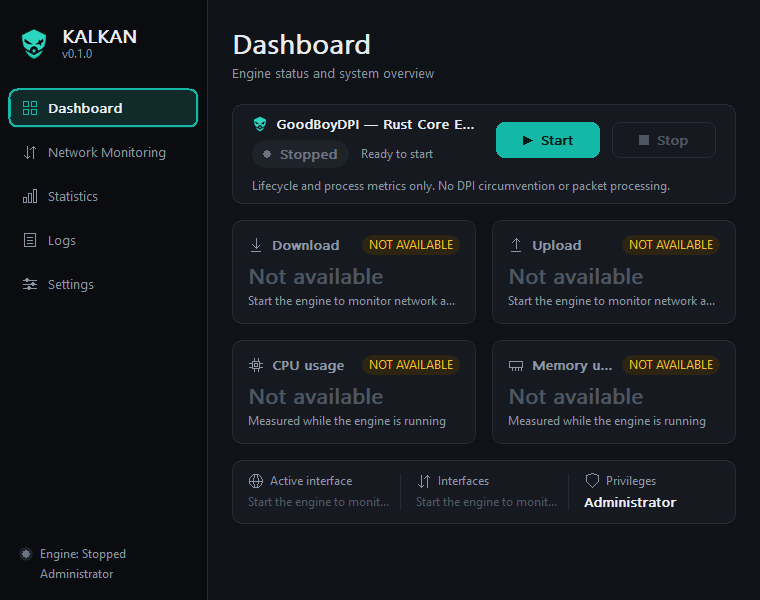
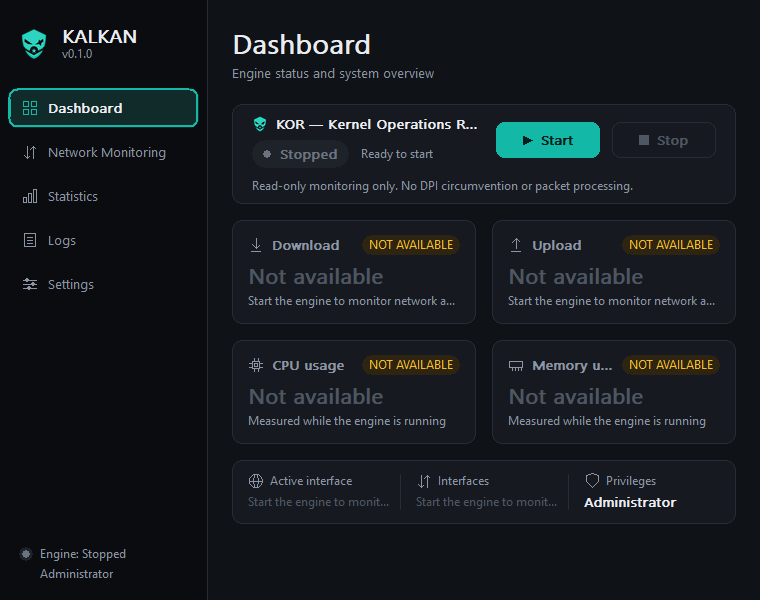
Docs: Phase 6 completed — CI run 38 results and KOR screenshots
- PERFORMANCE.md: Phase 6 completed; run 38 validation of the remaining
  changes (same-process A/B: one metrics update 5.85-6.15 ms on the
  original path vs 2.62-2.79 ms now; tracker 128 simulated adapters
  119 -> 46 us), Settings rendering and resize results, 30-minute soak
  (43/43, no memory or handle growth), remaining limitation (Settings
  resize relayout 3.5-4.3 ms; batching with DeferWindowPos deferred).
- README: Phase 6 done, Phase 7 in progress (research only); validated
  results; screenshots from run 38 showing KOR — Kernel Operations Runtime.
- ARCHITECTURE.md, GUI.md: rename, live-block repaint and tracker change
  marked as validated on Windows CI (run 38).
- docs/screenshots: 8 screenshots regenerated by the run 38 self-test.

Changed region(s): [[0.3329, 0.3, 0.8776, 0.33], [0.3632, 0.18, 0.6053, 0.24]]

diff --git a/docs/PERFORMANCE.md b/docs/PERFORMANCE.md
@@ -1,4 +1,4 @@
-# KALKAN Performance (Phase 6, in progress)
+# KALKAN Performance (Phase 6, completed)
 
 *KALKAN — A Novera Labs Product. Engine: KOR — Kernel Operations Runtime (user mode; previously GoodBoyDPI).*
 
@@ -7,9 +7,8 @@
 | Status | What |
 |---|---|
 | **Validated on Windows CI** | Baseline benchmark and 30-minute soaks (runs 28, 32), frame breakdown (run 34); the first GUI optimization, commit `06e2997`: no relayout and no child-control repaints on metrics updates, sidebar skipped, quieter Logs page, status log line at Trace (run 36: benchmark, self-test 63/63, 2-minute and 30-minute soaks 43/43); GUI-mode log file with rotation during the soak (run 32 listing: `kalkan.log` + 6 archives of ≤ 5 MiB) |
-| **Measured on Linux only** | Tracker sort-key change (local commit `5731234`): 128 / 32 simulated interfaces 43 → 27 µs, 8.8 → 6.5 µs |
+| **Validated on Windows CI, run 38** (commits `5731234`, `ed1873c`, `a5b7255`) | Live-block repaint (one update 55 % cheaper than the original path, same process), tracker sort keys, Settings rendering and resize measurements, KOR rename; self-test 63/63, 2-minute soak 15/15, 30-minute soak 43/43 |
 | **Simulated** | `tests/soak_sim.rs`: scripted adapters, counter resets and API failures, fake process probe (runs on Linux and in Windows CI) |
-| **Pending (not yet run on Windows)** | Local commit `5731234`: live-block invalidation, header/note skipped in paint, per-block paint timing, same-process A/B of the old and new update path; the tracker change. Uncommitted: Settings page rendering and resize measurements (see "Settings rendering and resize measurements") |
 | **Not measured at all** | Desktop/laptop hardware, Windows 10, high-DPI monitors, real adapter churn, sessions longer than 30 minutes, a standard user |
 
 This page records how KALKAN's runtime cost was measured, what was found,
@@ -27,7 +26,7 @@ from a tool in this repository and a CI run that can be repeated.
 | Tool | What it runs | What it reports |
 |---|---|---|
 | `kalkan --benchmark` | Headless: the real monitor, tracker, engine and logging stack. About 2 minutes | Environment and build; 3 rounds × n=1000 of `GetIfTable2`, the tracker and both together (mean, p50, p99, max, CPU per call); tracker scaling with 1–128 **simulated** interfaces; cost of a log event through the production subscriber (file + viewer buffer); size and cost of the GUI's status log line; network sampling while another thread logs flat out; engine CPU stopped and running (3 × 10 s each); memory, handles and threads at start-up, while running and after 200 start/stop cycles |
-| `kalkan --soak <minutes>` | The real window, engine, monitor and log file (GUI-mode file logging with rotation; in CI run 32 the log file rotated at 5 MiB and kept 6 archives within the default retention of 7) | Per minute: process CPU, working set, private bytes, kernel/GDI/USER handles, threads, main-window paints, owner-drawn control paints, relayouts and metrics fast-path updates, GUI paint time, and **input latency** (a helper thread posts a timestamped message every 100 ms; the delay until the UI thread handles it is how long a click would wait). Activities rotate every 5 minutes: steady monitoring, 20 start/stop cycles, every page + minimize/restore + 4 resizes + DPI 144→96, a 50 000-line log burst with the Logs page open, and a settings save + engine restart. At start: the cost of one frame (back buffer / drawing / blit / owner-drawn controls; validated in runs 34 and 36). Added in local commit `5731234`, not yet run on Windows: drawing time per block, and one metrics update through the previous and the current code path in the same process. Added locally (uncommitted), not yet run on Windows: Settings page rendering and resize handling (below) |
+| `kalkan --soak <minutes>` | The real window, engine, monitor and log file (GUI-mode file logging with rotation; in CI run 32 the log file rotated at 5 MiB and kept 6 archives within the default retention of 7) | Per minute: process CPU, working set, private bytes, kernel/GDI/USER handles, threads, main-window paints, owner-drawn control paints, relayouts and metrics fast-path updates, GUI paint time, and **input latency** (a helper thread posts a timestamped message every 100 ms; the delay until the UI thread handles it is how long a click would wait). Activities rotate every 5 minutes: steady monitoring, 20 start/stop cycles, every page + minimize/restore + 4 resizes + DPI 144→96, a 50 000-line log burst with the Logs page open, and a settings save + engine restart. At start: the cost of one frame (back buffer / drawing / blit / owner-drawn controls; validated in runs 34 and 36). Since run 38 also: drawing time per block, one metrics update through the previous and the current code path in the same process, and Settings page rendering and resize handling (below) |
 | `tests/soak_sim.rs` | Any OS. The real engine and lifecycle, tracker, GUI model and logging stack; a **scripted** monitor (adapter churn, counter resets, API failures every 41 samples) and a fake process probe | A counting global allocator measures live heap bytes and allocations per sample; heap growth over 5 000 samples, 300 start/stop cycles and a 100 000-line log flood from 4 threads; asserted bounds |
 
 CI runs the benchmark, the simulated test and a 2-minute soak on every push,
@@ -115,7 +114,7 @@ joined, not a leak. The UI thread never waited more than 15 ms for input.
 | # | Problem | Evidence | Decision |
 |---|---|---|---|
 | 1 | Every 1 s status repainted the **whole window and all child controls** and re-ran the full relayout (MoveWindow/ShowWindow/EnableWindow on every control), although only numbers and graphs changed | 1 relayout + 5 owner-drawn repaints per second; children 0.32 ms per frame | Fixed (metrics fast path) |
-| 2 | The whole page was redrawn every second, including static parts: sidebar, page title, table header area, and a word-wrapped explanatory paragraph | Drawing is 90 % of the frame | Fixed in two steps: sidebar skipped (pushed, measured); static header and note skipped (local, see "Pending") |
+| 2 | The whole page was redrawn every second, including static parts: sidebar, page title, table header area, and a word-wrapped explanatory paragraph | Drawing is 90 % of the frame | Fixed in two steps: sidebar skipped (`06e2997`, run 36); static header and note skipped (`5731234`, run 38) |
 | 3 | The Logs page repainted the whole window on every log wake-up even when the view did not change | Code inspection; 3.4 relayouts/s during log bursts | Fixed |
 | 4 | At Debug level the GUI logged the full engine status every second: about 2.0 KB per line with 6 adapters, 7 MB of log file per hour, and up to ~10 MB of the viewer's 5 000-entry buffer | Benchmark: 2036 bytes per event | Status dump moved to Trace; other engine events stay at Debug |
 | 5 | The tracker sorted interfaces with `to_lowercase()` twice per comparison (2·n·log n string allocations per sample) | Superlinear scaling: 24 µs at 32, 119 µs at 128 simulated interfaces | Fixed (`sort_by_cached_key`, same order); negligible at 6 adapters |
@@ -141,12 +140,12 @@ log flood.
    repaints only the page area so the file status stays live. *(Pushed.)*
 4. **Status at Trace**: the periodic status is logged at Trace; other engine
    events at Debug. *(Pushed.)*
-5. **Live-block invalidation** (local): the fast path invalidates only the
+5. **Live-block invalidation** (`5731234`, validated in run 38): the fast path invalidates only the
    engine panel, tiles, cards, strip and table; the header, notice and the
    explanatory note are skipped when outside the update region.
-6. **Tracker sort keys cached** (local, `kalkan-net`): identical order.
+6. **Tracker sort keys cached** (`5731234`, `kalkan-net`, validated in run 38): identical order.
 7. Measurement code: benchmark, soak, simulated test, per-block paint timing,
-   same-process A/B of the old and new update path (local), counters for
+   same-process A/B of the old and new update path, Settings and resize timing (`ed1873c`), counters for
    paints, owner-drawn controls, relayouts and fast-path updates. The
    counters are relaxed atomic adds per paint, negligible next to the paint.
 
@@ -188,7 +187,7 @@ from these runs; it is below 1 % of one core in every steady minute of all
 three soaks. Memory and handles stay flat, and input latency is unchanged
 (sub-millisecond p99).
 
-## Settings rendering and resize measurements (implemented, Windows results pending)
+## Settings rendering and resize measurements
 
 Added to `kalkan --soak` (code: `win32_soak.rs`, statistics helper and its
 unit tests: `measure.rs`). They run **once at the start of a soak**, after
@@ -216,29 +215,65 @@ and time of relayouts, main-window paints (and the drawing part) and
 owner-drawn control paints, plus drawing time per block (the Settings page
 itself is in the `note_pages` block).
 
-**Status:** implemented and compiled for Windows (Clippy with warnings as
-errors, cross-build); the statistics helper is unit-tested on Linux. **No
-Windows numbers exist yet**: they come from the first CI run after the final
-push (the 2-minute soak in the main job and the 30-minute soak job both run
-them).
+**Results (CI run 38, Windows VM; 2-minute soak / 30-minute soak):**
 
-## Pending (local, not yet validated on Windows)
+| Key | Mean | p95 | Max | Work per operation (30-min soak) |
+|---|---|---|---|---|
+| `settings.frame_all_children` | 6.16 / 5.34 ms | 8.10 / 6.34 ms | 9.92 / 6.81 ms | 1 main paint (2.1 ms) + 16 owner-drawn controls |
+| `settings.frame_main_only` | 2.15 / 1.96 ms | 3.18 / 2.57 ms | 3.87 / 3.14 ms | 1 main paint, drawing 1.5 ms |
+| `settings.relayout_and_paint` | 6.18 / 5.46 ms | 7.91 / 6.31 ms | 9.56 / 6.60 ms | relayout 0.19 ms + paints |
+| `resize.network` | 9.09 / 8.39 ms | 11.64 / 10.17 ms | 13.69 / 10.93 ms | relayout 0.11–0.16 ms, main paint ~5 ms, 5 owner-drawn controls |
+| `resize.settings` | 14.21 / 11.81 ms | 18.10 / 13.76 ms | 18.71 / 13.90 ms | **relayout 3.5–4.3 ms**, main paint ~2.2 ms, 16 owner-drawn controls |
 
-Changes 5–7 above are built and tested on Linux (all unit tests, the
-simulated long-run test, Clippy with warnings as errors for Linux and for
-the Windows target, the Windows cross-build), but have **not run on Windows
-yet**. The next CI run measures them:
+**Reading:** the Settings page is cheap to draw (main window 2 ms; the 16
+owner-drawn controls add about 1.5 ms). A resize of the Network page costs
+about one Network frame plus a 0.1 ms relayout. A resize of the Settings
+page spends 3.5–4.3 ms in the relayout itself: moving its ~20 child
+controls one by one (`MoveWindow` per control). Every mean stays below one
+60 Hz frame (16.7 ms); the worst single Settings resize was 18.7 ms in the
+2-minute soak. Possible improvement (not implemented, needs approval): move
+the controls in one batch with `BeginDeferWindowPos` / `EndDeferWindowPos`.
 
-* `soak: update_previous_path` vs `update_current_path`: ms per metrics
-  update, paints and owner-drawn controls per update, and drawing time per
-  block, in the same process;
-* the per-block frame breakdown;
-* the tracker-scaling numbers. On the development machine (Linux, same
-  binary logic, not a Windows measurement): 128 simulated interfaces 43 →
-  27 µs, 32 interfaces 8.8 → 6.5 µs, 8 and fewer unchanged.
+## Validation of the remaining changes (CI run 38, commit `a5b7255`)
 
-If the live-block invalidation does not show a measurable gain there, it
-will be reverted.
+All CI steps passed: Windows unit tests, Clippy with warnings as errors,
+formatting, release build, engine tests repeated 25×, smoke test, the real
+5 MB counter check, the simulated long-run test, the benchmark, the GUI
+self-test (63/63, screenshots now show "KOR — Kernel Operations Runtime"),
+the 2-minute soak (15/15) and the 30-minute soak (43/43); the Linux job
+(tests, Windows-target Clippy, cross-build) passed too.
+
+**Live-block repaint, same process (no machine variance):**
+
+| One metrics update on the Network page | 2-minute soak | 30-minute soak |
+|---|---|---|
+| Original path (full relayout, whole window and children) | 6.15 ms; 1 paint, 5 owner-drawn controls | 5.85 ms; 1 paint, 5 owner-drawn controls |
+| Current path (live blocks only) | **2.79 ms**; 1 paint, 0 owner-drawn controls | **2.62 ms**; 1 paint, 0 owner-drawn controls |
+| Drawing saved per update | sidebar 0.29, header 0.12, note 1.36 ms | sidebar 0.26, header 0.11, note 1.34 ms |
+
+The change is kept: one update is 55 % cheaper, and what remains is the
+tiles and the interface table, which do change every second.
+
+**30-minute soak (steady minutes):** paint work 3.58 ms per second, which is
+0.78 frames of that run's own full-window cost per second (baseline
+1.44–1.70, after `06e2997` 1.25); owner-drawn control repaints 0.03/s;
+relayouts 0/s (1 fast-path update per second); process CPU 0.80 % mean,
+1.30 % max (within the VMs' run-to-run noise, so no CPU improvement is
+claimed); input latency worst p99 0.14 ms, max over 30 minutes 18.8 ms;
+private memory 2.5 / 5.7 / 5.9 MiB after 1 / 10 / 30 minutes; growth
+minute 5 → 25: +0.41 MiB, kernel handles +2, GDI 0, USER +1, threads −3
+(all within the bounds; the memory rise in the first minutes is the log
+viewer's 5 000-entry ring filling up).
+
+**Tracker sort keys (benchmark, simulated interfaces):** 32 interfaces
+10.3 µs and 128 interfaces 45.6 µs in run 38, against 23.7 µs and 119.4 µs
+in the baseline run 32 (different VMs; on one Linux machine the same change
+measured −31 % and −45 %). Real 6-adapter tracker update: 2.3 µs.
+
+**Headless numbers (benchmark, run 38):** network sample + tracker 632 µs
+wall, 318 µs CPU; one info log event 3.9 µs; engine stopped 0.0 % CPU,
+running 0.05 % mean; memory 7.6 MiB at start-up, 9.2 MiB running, unchanged
+after 200 start/stop cycles.
 
 ## Real-hardware validation still needed
 

diff --git a/README.md b/README.md
@@ -10,7 +10,7 @@
   <img src="https://img.shields.io/badge/Language-Rust-orange?style=for-the-badge&logo=rust" />
   <img src="https://img.shields.io/badge/Platform-Windows%2010%20%7C%2011-blue?style=for-the-badge&logo=windows" />
   <img src="https://img.shields.io/badge/Architecture-Native-success?style=for-the-badge" />
-  <img src="https://img.shields.io/badge/Status-Phase%206%20of%207%20(in%20progress)-yellow?style=for-the-badge" />
+  <img src="https://img.shields.io/badge/Status-Phase%207%20of%207%20(research)-yellow?style=for-the-badge" />
   <img src="https://img.shields.io/badge/License-MIT-green?style=for-the-badge" />
 </p>
 
@@ -39,7 +39,7 @@ KALKAN is **not** a GUI wrapper around GoodbyeDPI or any other tool. It is an in
 
 > **About the engine name.** KOR is KALKAN's background engine: an ordinary **user-mode** part of `kalkan.exe` (threads in the application process). The word "Kernel" in *Kernel Operations Runtime* does **not** mean it runs in Windows kernel mode, uses or installs a kernel driver, or is a Windows kernel component. KALKAN installs no drivers.
 >
-> **Naming status.** The engine was previously called *GoodBoyDPI*. The code now uses KOR: the engine panel shows "KOR — Kernel Operations Runtime", the Settings help text says "Start the KOR engine when KALKAN opens", and the worker thread is named `kor-core`. This rename is implemented locally and **has not run on Windows yet**; the screenshots below still show the legacy name until the Windows self-test regenerates them. Log files written by older builds keep the old thread name `goodboydpi-core` and still load in the log viewer.
+> **Naming status.** The engine was previously called *GoodBoyDPI*. The code now uses KOR: the engine panel shows "KOR — Kernel Operations Runtime", the Settings help text says "Start the KOR engine when KALKAN opens", and the worker thread is named `kor-core`. Validated on Windows CI (run 38); the screenshots below are from that run. Log files written by older builds keep the old thread name `goodboydpi-core` and still load in the log viewer.
 
 **Current capabilities:** a native Windows GUI (Win32, Rust); read-only network monitoring through the Windows IP Helper API (`GetIfTable2`) with per-interface statistics, download/upload speed and traffic totals; KALKAN's own CPU and memory use; Logs and Settings pages; TOML configuration; event-driven communication between the GUI and the engine. KALKAN does **not** implement DPI circumvention, packet capture, packet manipulation or injection, or any restriction bypass, and it does not enable access to any blocked service.
 
@@ -54,15 +54,15 @@ KALKAN is built in phases. A feature is marked ✅ only after it has been compil
 | 3 | Core engine lifecycle: KOR (threaded; previously GoodBoyDPI) | ✅ Done |
 | 4 | Read-only network monitoring and UI refinement | ✅ Done |
 | 5 | Logging (files, rotation, in-app view) and configuration UI | ✅ Done |
-| 6 | Performance measurement and optimization | 🔧 In progress (see [docs/PERFORMANCE.md](docs/PERFORMANCE.md)) |
-| 7 | DPI research and controlled integration planning | 🔬 Research |
+| 6 | Performance measurement and optimization | ✅ Done (see [docs/PERFORMANCE.md](docs/PERFORMANCE.md)) |
+| 7 | DPI research and controlled integration planning | 🔬 In progress (research and documentation only; no implementation) |
 
 ### Screenshots
 
-Captured automatically by `kalkan --self-test` on the Windows CI runner (CI run 20). The traffic is real and low, because the runner is idle:
+Captured automatically by `kalkan --self-test` on the Windows CI runner (CI run 38). The traffic is real and low, because the runner is idle:
 
 <p align="center">
-  <img src="docs/screenshots/dashboard-running.png" width="720" alt="Dashboard: engine running (screenshot from before the KOR rename, showing the legacy name GoodBoyDPI), live download/upload/CPU/memory cards, active interface strip" />
+  <img src="docs/screenshots/dashboard-running.png" width="720" alt="Dashboard: KOR — Kernel Operations Runtime running, live download/upload/CPU/memory cards, active interface strip" />
 </p>
 
 | Logs (real entries, level chips, search) | Settings (editable, validated) |
@@ -206,10 +206,10 @@ Performance is a requirement, not an afterthought:
 
 - No background polling while idle, and no async runtime unless it is justified. The GUI sleeps in `GetMessageW` and uses no periodic timers (the only timer is a one-shot timeout while closing).
 - Monitoring is read-only. It reads OS counters and does no packet processing.
-- Phase 6 (in progress) measures CPU, memory, handles, input latency and paint work with `kalkan --benchmark`, `kalkan --soak <minutes>` and a simulated long-run test. Results, methodology and limits are in **[docs/PERFORMANCE.md](docs/PERFORMANCE.md)**.
+- Phase 6 (completed) measured CPU, memory, handles, input latency and paint work with `kalkan --benchmark`, `kalkan --soak <minutes>` and a simulated long-run test. Results, methodology and limits are in **[docs/PERFORMANCE.md](docs/PERFORMANCE.md)**.
   - **Validated on Windows CI** (GitHub Actions VM, not desktop hardware): network monitoring costs about 0.34 ms CPU per 1 s sample; with the live Network page open the whole app stayed below 1 % of one core in every steady minute of three 30-minute soaks; memory, handles and threads were flat; input latency p99 was 0.2 ms. The first GUI repaint optimization cut owner-drawn control repaints during monitoring from 5.05 to 0.03 per second and relayouts from 1 to 0 per second. No CPU improvement is claimed: the difference is within the run-to-run noise of the VMs.
   - **Simulated** (any OS): no heap growth over 5 000 samples with adapter churn and API failures, 300 start/stop cycles and a 100 000-line log flood.
-  - **Not yet run on Windows:** the latest local changes (repainting only the live blocks, cached tracker sort keys); the tracker change was measured on Linux only.
+  - **Also validated on Windows CI (run 38):** repainting only the blocks that show live data makes one metrics update 55 % cheaper than the original path in the same process (2.6–2.8 ms vs 5.9–6.1 ms); the tracker handles 128 simulated adapters in 46 µs instead of 119 µs; a Settings page frame takes 2–6 ms and a window resize 8–14 ms on average (worst single resize: 18.7 ms, on the Settings page).
   - **We do not claim numbers for real desktop hardware until they are measured there.**
 
 ## 🔐 Security and transparency

diff --git a/docs/GUI.md b/docs/GUI.md
@@ -115,7 +115,7 @@ All colours and sizes come from `theme.rs`. There are no gradients, shadows or a
 
   A duplicate command that gets past the buttons (for example, sent directly) is rejected by the engine. It shows an amber warning notice and the state does not change.
 * Errors from the engine (`EngineError`) appear as a red notice with the engine's real message. A successful Start or Stop clears old notices.
-* The engine panel always shows the identity **KOR — Kernel Operations Runtime** (`kalkan_core::ENGINE_TITLE`) and the scope line "Read-only monitoring only. No DPI circumvention or packet processing." (`ENGINE_SCOPE`; the previous wording, "Lifecycle and process metrics only…", predated network monitoring). *Renamed locally; not yet run on Windows, and the screenshots still show the previous title.* The scope line spans the full panel width below the buttons, so it stays readable at the minimum window size. A layout test checks this.
+* The engine panel always shows the identity **KOR — Kernel Operations Runtime** (`kalkan_core::ENGINE_TITLE`) and the scope line "Read-only monitoring only. No DPI circumvention or packet processing." (`ENGINE_SCOPE`; the previous wording, "Lifecycle and process metrics only…", predated network monitoring). *Validated on Windows CI (run 38). At the minimum window size the title is shortened with an ellipsis, as the previous title was.* The scope line spans the full panel width below the buttons, so it stays readable at the minimum window size. A layout test checks this.
 * Keyboard: Tab/Shift+Tab reach every Logs and Settings control (search box, chips, list, Pause/Copy/Export, level segments, number boxes, switches, Save/Revert/Reset). Ctrl+C in the log list copies the selected entry.
 
 ## Logs page (Phase 5)
@@ -152,7 +152,7 @@ All colours and sizes come from `theme.rs`. There are no gradients, shadows or a
 
 * `GetMessageW` blocks, and the GUI has no periodic timers, so the UI uses no CPU while idle. While the engine is Running, the UI wakes once per sample interval (default 1 s) to show new metrics. While Stopped, nothing wakes it. Measured in Phase 6: see [PERFORMANCE.md](PERFORMANCE.md).
 * **Update paths (Phase 6).** A *structural* change (engine state, button state, notice, page, size, DPI, a layout change) runs the full `relayout`: view, layout, every control moved/shown/enabled, the whole window and its children repainted. A *metrics-only* status (numbers and graphs) takes `refresh_metrics`: the view and layout are rebuilt; if the layout is unchanged, no control is moved, enabled or repainted and the sidebar is not redrawn. *Validated on Windows CI (run 36, commit `06e2997`):* owner-drawn control repaints 5.05 → 0.03 per second and relayouts 1.00 → 0 per second during monitoring.
-  * *Local, not yet run on Windows:* the fast path invalidates only the blocks that show live data (engine panel, tiles, cards, strip, table), and `paint` also skips the page header, notice and explanatory note when they are outside the update region. It will be kept only if the next Windows run shows a measurable gain (the soak's same-process A/B of the old and new update path measures it).
+  * The fast path invalidates only the blocks that show live data (engine panel, tiles, cards, strip, table), and `paint` also skips the page header, notice and explanatory note when they are outside the update region. *Validated on Windows CI (run 38), same process:* one metrics update 5.85 ms on the original path (full relayout, 5 owner-drawn controls) vs 2.62 ms on the current path (0 owner-drawn controls; header, sidebar and note not drawn).
 * The Logs page repaints only when the viewer changed (or the page area, while paused, so the file status stays live).
 * The periodic status is logged at Trace, not Debug (about 2 KB of text per second with 6 adapters).
 * The only timer is a one-shot timer (7 s) armed when the window is closing. It bounds the wait for the engine's shutdown confirmation.

diff --git a/docs/ARCHITECTURE.md b/docs/ARCHITECTURE.md
@@ -51,7 +51,7 @@ kalkan/
 KOR is KALKAN's background engine. **Today it manages its own lifecycle, reads the Windows interface counters (read-only, `GetIfTable2`) and measures KALKAN's own CPU and memory use. It contains no DPI circumvention, packet capture, packet injection or packet modification.**
 
 * **User mode only.** KOR is a set of ordinary threads inside `kalkan.exe`. "Kernel" in *Kernel Operations Runtime* is part of the name; KOR does not run in Windows kernel mode, does not use or install a kernel driver, and is not a Windows kernel component.
-* **Naming.** KOR was previously named *GoodBoyDPI*. In code: `ENGINE_NAME` = "KOR", `ENGINE_TITLE` = "KOR — Kernel Operations Runtime" (engine panel), `ENGINE_SCOPE` = "Read-only monitoring only. No DPI circumvention or packet processing.", the Settings help text "Start the KOR engine when KALKAN opens", and the worker thread `WORKER_THREAD_NAME` = `kor-core`. *This rename is implemented locally and has not run on Windows yet.*
+* **Naming.** KOR was previously named *GoodBoyDPI*. In code: `ENGINE_NAME` = "KOR", `ENGINE_TITLE` = "KOR — Kernel Operations Runtime" (engine panel), `ENGINE_SCOPE` = "Read-only monitoring only. No DPI circumvention or packet processing.", the Settings help text "Start the KOR engine when KALKAN opens", and the worker thread `WORKER_THREAD_NAME` = `kor-core`. *Validated on Windows CI (run 38).*
 * **Compatibility.** No configuration key contains the engine name, so existing `kalkan.toml` files are unaffected. Log files written before the rename contain the thread name `goodboydpi-core`; the log viewer's history parser does not depend on thread names and loads both (unit test `history_parses_old_and_new_engine_thread_names`).
 
 ### Threads
@@ -191,13 +191,13 @@ in [PERFORMANCE.md](PERFORMANCE.md). The architecture was not changed:
 * The engine, monitor and tracker were already cheap (about 0.34 ms CPU per
   1 s sample, 99 % of it in `GetIfTable2`; validated on Windows CI). The only
   change there is the tracker computing each interface's sort key once
-  instead of per comparison (same order). *Measured on Linux only; not yet
-  run on Windows CI.*
+  instead of per comparison (same order). *Validated on Windows CI (run
+  38): 128 simulated adapters 119 → 46 µs.*
 * The GUI kept its event-driven design (no periodic timers, no polling).
   Metrics-only updates no longer move or repaint child controls and skip the
-  sidebar (*validated on Windows CI, run 36*). Repainting only the blocks
-  that show live data is the next step (*local, not yet run on Windows*);
-  see [GUI.md](GUI.md).
+  sidebar (*validated on Windows CI, run 36*). Since run 38 only the blocks
+  that show live data are repainted (*validated: one update 55 % cheaper
+  than the original path, same process*); see [GUI.md](GUI.md).
 * No unbounded collection was found: graph history is a fixed 60-sample
   ring, the log viewer a 5 000-entry ring, the tracker's maps are rebuilt
   from each snapshot (removed adapters are dropped), and engine threads are
